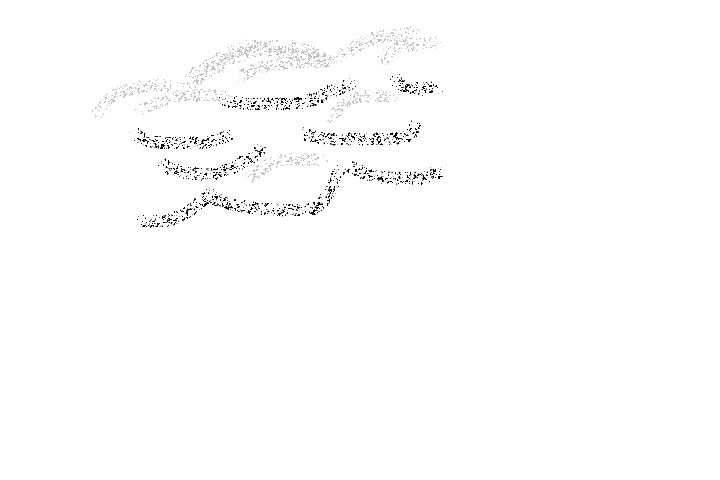
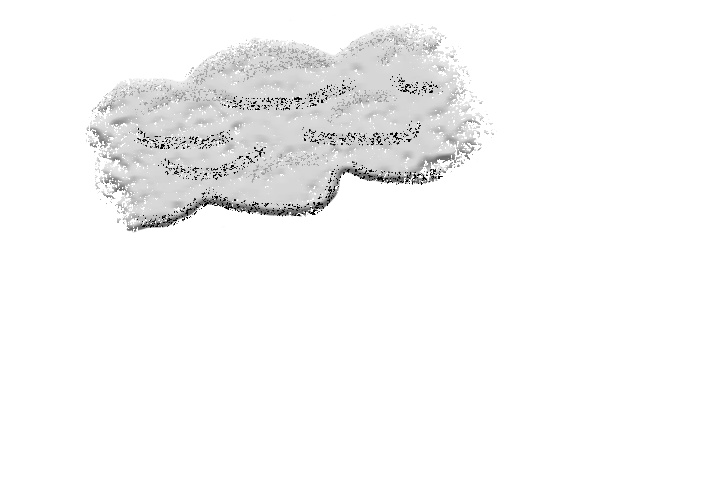
Added a background with clouds

Changed region(s): [[0.1222, 0.0625, 0.6722, 0.5]]

diff --git a/src/scenes/Play.js b/src/scenes/Play.js
@@ -19,8 +19,18 @@ class Play extends Phaser.Scene {
         this.load.spritesheet('emotes', 'asset/images/Pin_Emotes_Spritesheet.png', { frameWidth: 24, frameHeight: 24 });
         this.load.image('customer bubble', './asset/images/flipped_small_bubble.png')
         this.load.image('player bubble', './asset/images/small_bubble.png')
+        this.load.image('sky', './asset/images/Level_background.png')
+        this.load.image('c1', './asset/images/Cloud_1.png')
+        this.load.image('c2', './asset/images/Cloud_2.png')
     }
     create() {
+        //BG 
+        this.sky = this.add.tileSprite(0,0,720,480,'sky').setOrigin(0,0);
+        this.sky.depth = -1;
+        this.cloud2 = this.add.tileSprite(0,-200,720,480,'c2').setOrigin(0,0);
+        this.cloud1 = this.add.tileSprite(0,-125,720,480,'c1').setOrigin(0,0);
+
+
         console.log(window.currentLevel);
 
         //game over flag
@@ -181,6 +191,9 @@ class Play extends Phaser.Scene {
     }
 
     update() {
+        this.cloud1.tilePositionX += 1.5;
+        this.cloud2.tilePositionX += 0.5;
+
         //stop if gameOver is true or level hasn't started
         if(!this.levelStart && window.currentLevel > 0){
 
